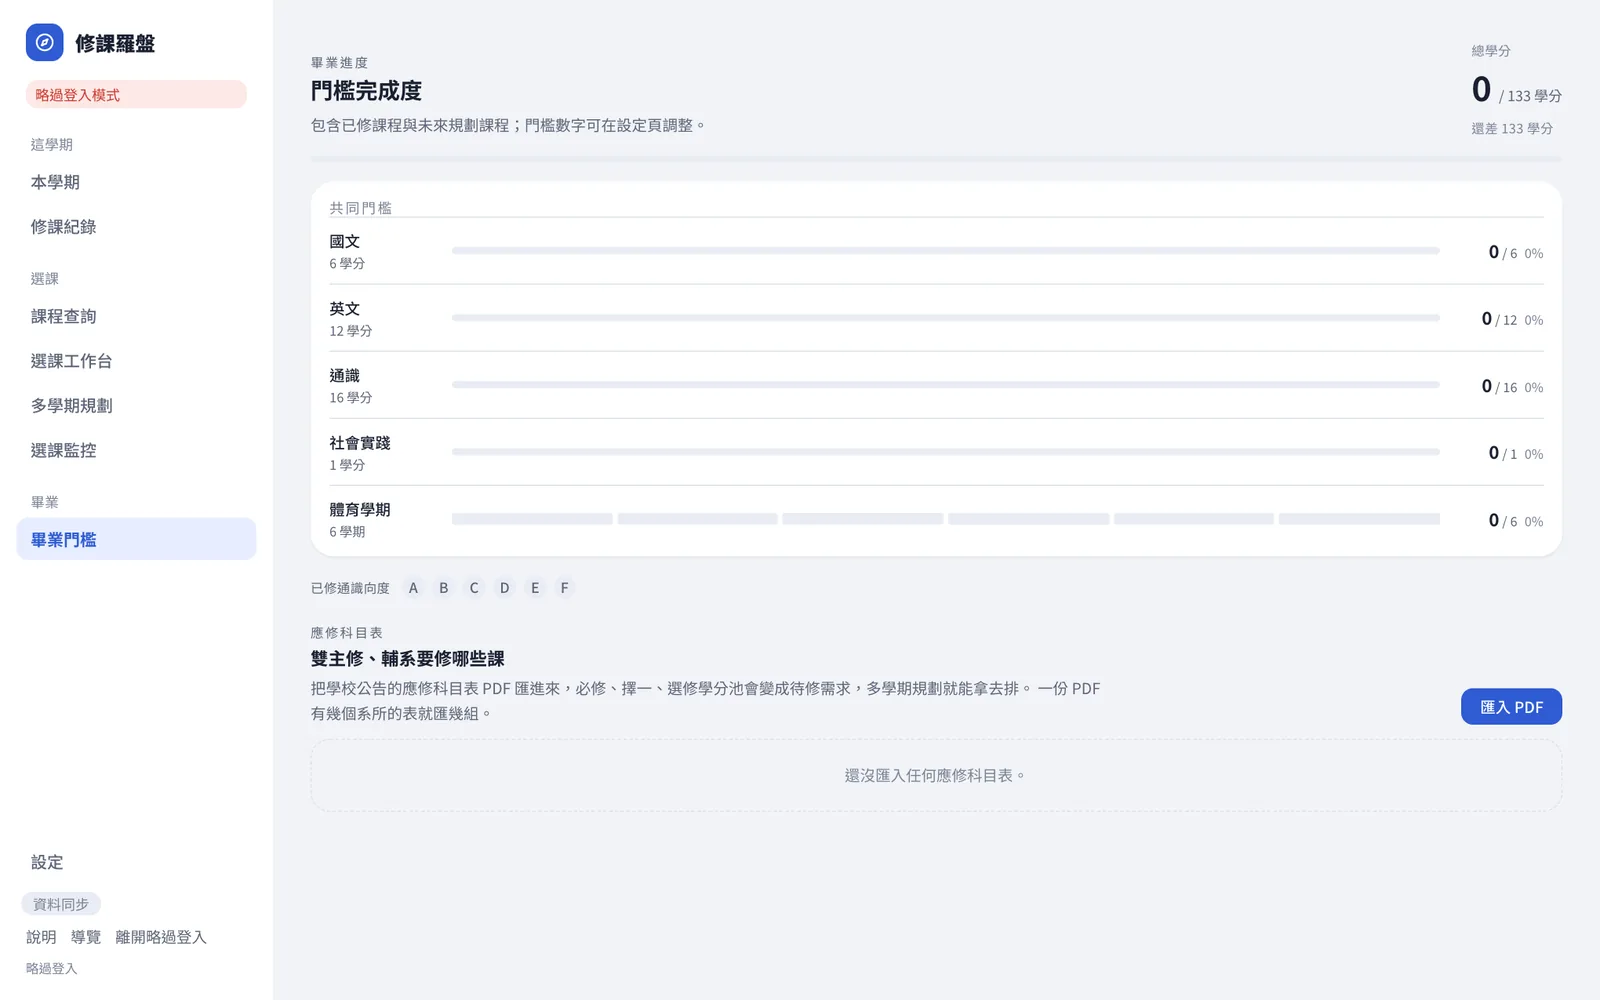
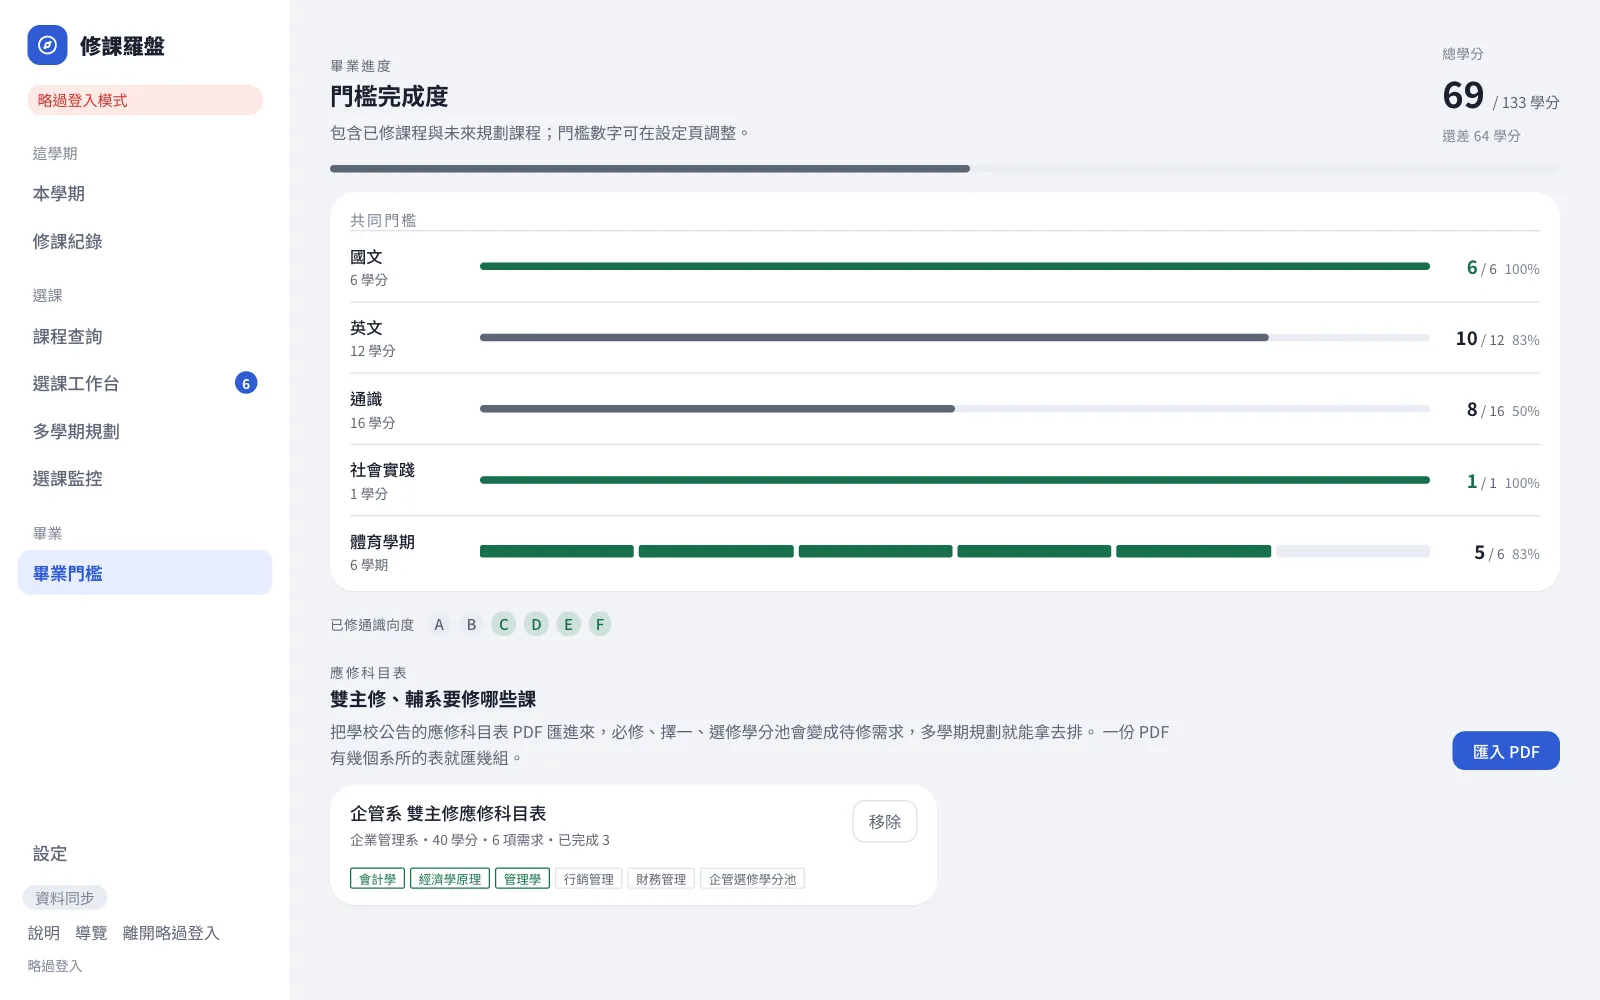
Reshoot Course Compass screenshot with sample data

diff --git a/projects.html b/projects.html
@@ -154,7 +154,7 @@
         <p class="note kind">2025-12 起・327 commits</p>
         <h3>Course Compass 修課羅盤</h3>
         <p>臺科大課程與學分規劃。React／Vite Web（Vercel）、SwiftUI iOS、FastAPI 後端、Supabase。</p>
-        <figure class="shot"><button type="button" class="zoom" data-full="assets/img/projects/coursecompass-thresholds.webp" aria-label="放大截圖"><img src="assets/img/projects/coursecompass-thresholds.webp" width="1600" height="1000" alt="修課羅盤的畢業門檻頁：國文、英文、通識等共同門檻的完成進度條，右上角顯示總學分" loading="lazy"></button><figcaption>畢業門檻頁（略過登入的示範模式，無個人資料）</figcaption></figure>
+        <figure class="shot"><button type="button" class="zoom" data-full="assets/img/projects/coursecompass-thresholds.webp" aria-label="放大截圖"><img src="assets/img/projects/coursecompass-thresholds.webp" width="1600" height="1000" alt="修課羅盤的畢業門檻頁（範例資料）：國文、英文、通識等共同門檻已有進度的進度條，右上角總學分 69 / 133，下方是匯入的雙主修應修科目表" loading="lazy"></button><figcaption>畢業門檻頁（範例資料，無個人資料）</figcaption></figure>
         <ul class="tags"><li>React／Vite</li><li>SwiftUI</li><li>FastAPI</li><li>Supabase</li></ul>
       </article>
       <article class="card plain pc" data-cat="app">
